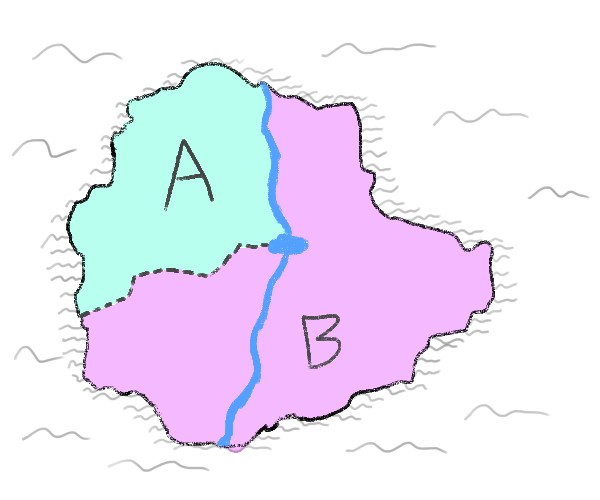
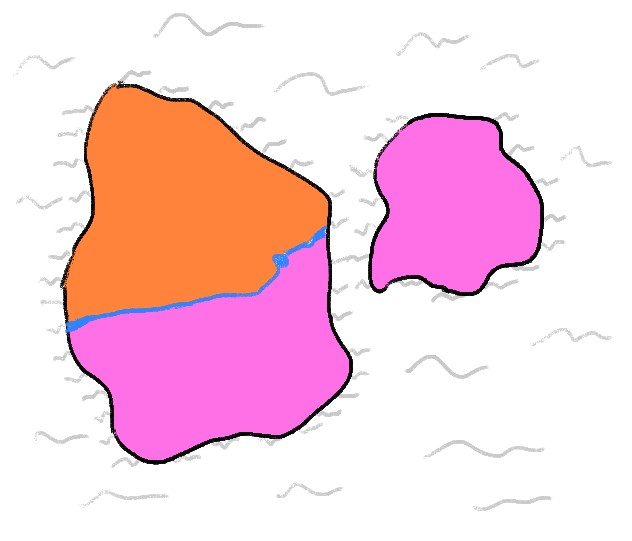
refactor: landkarte

diff --git a/lib/stories/16-landkarte.tsx b/lib/stories/16-landkarte.tsx
@@ -13,48 +13,53 @@ export const story16: StoryData<DATA> = {
   y: 240,
   deps: [8, 30],
   generator: () => {
-    const sum = randomIntBetween(50, 70) * 10
-    let diff = randomIntBetween(7, 15) * 10
-    if ((sum - diff) % 20 === 10) {
-      diff += 10
+    const sum = randomIntBetween(50, 70)
+    let diff = randomIntBetween(7, 15)
+    if ((sum - diff) % 2 === 1) {
+      diff += 1
     }
     return { sum, diff }
   },
   render: ({ data }) => (
     <>
       <p>
-        Mir macht es Spaß, Bilder für meine Geschichten zu entwerfen. Für meine
-        neuste Geschichte habe ich diese Landkarte gezeichnet.
+        &quot;Auf einer kleinen Inselgruppe im Meer lebt ein Volk von orangen
+        Nashörnern friedlich mit einem Volk von pinken Einhörnern zusammen
+        ...&quot;
+      </p>
+      <p>
+        Mit diesen Worten beginnt mein Aufsatz. Ich habe schon eine Karte
+        gezeichnet, nun möchte ich noch einige Städte auf der Karte ergänzen.
       </p>
       <img src="/story16.jpg" alt="Landkarte" className="w-[400px]" />
       <p>
-        Die Insel hat eine Fläche von {data.sum} Fußballfeldern. Auf einer Insel
-        leben die Gruppen A und B. Durch einen See mit zwei Flüssen wird die
-        Insel in zwei gleich große Teile unterteilt. Gruppe B besitzt{' '}
-        {data.diff} Fußballfelder mehr Land als Gruppe A.
+        Auf den Inseln soll es insgesamt {data.sum} Städte geben. Auf der
+        kleinen Insel rechts befinden sich {data.diff} Städte, auf der großen
+        Insel haben die beiden Völker gleich viele Städte.
       </p>
-      <p>Wie viel Fußballfelder Land besitzt Gruppe A?</p>
+      <p>Wie viele Städte besitzt das Volk der orangen Nashörner?</p>
     </>
   ),
   proof: ({ data }) => (
     <>
       <p>
-        Das ist eine sehr vertrackte Aufgabe! Ich habe mehrere Versuche
-        gebraucht, bis ich einen guten Rechenweg gefunden habe.
+        Bin sehr gespannt, ob der Frieden auf der Insel bleibt oder ob die
+        beiden Völker sich nicht irgendwann ins Horn kriegen.
       </p>
       <p>
-        Von den {data.sum} Fußballfeldern weiß ich, dass {data.diff}{' '}
-        Fußballfelder der Gruppe B gehören. Wenn ich diese abziehe, dann haben
-        Gruppe A und B jeweils den gleichen Anteil von den restlichen{' '}
-        {data.sum - data.diff} Fußballfeldern.
+        Zuerst aber die Berechnung der Städte-Zahl. Im ersten Schritt kann ich
+        die Anzahl der Städte auf der kleinen Insel abziehen. Ich erhalte{' '}
+        {data.sum} - {data.diff} = {data.sum - data.diff} Städte für die große
+        Insel links.
       </p>
       <p>
-        Ich halbiere und erhalte <strong>{(data.sum - data.diff) / 2}</strong>{' '}
-        Fußballfelder als Ergebnis für die Landfläche von Gruppe A.
+        Nun weiß ich, dass beide Völker davon gleich viele Städte besitzen. Das
+        Ergebnis lautet damit <strong>{(data.sum - data.diff) / 2}</strong>.
       </p>
     </>
   ),
-  submit: ignoreCaseSolutionWithGenData<DATA>((data) => [
-    ((data.sum - data.diff) / 2).toString(),
-  ]),
+  submit: ignoreCaseSolutionWithGenData<DATA>((data) => {
+    const result = (data.sum - data.diff) / 2
+    return [`${result}`, `${result} städte`]
+  }),
 }
